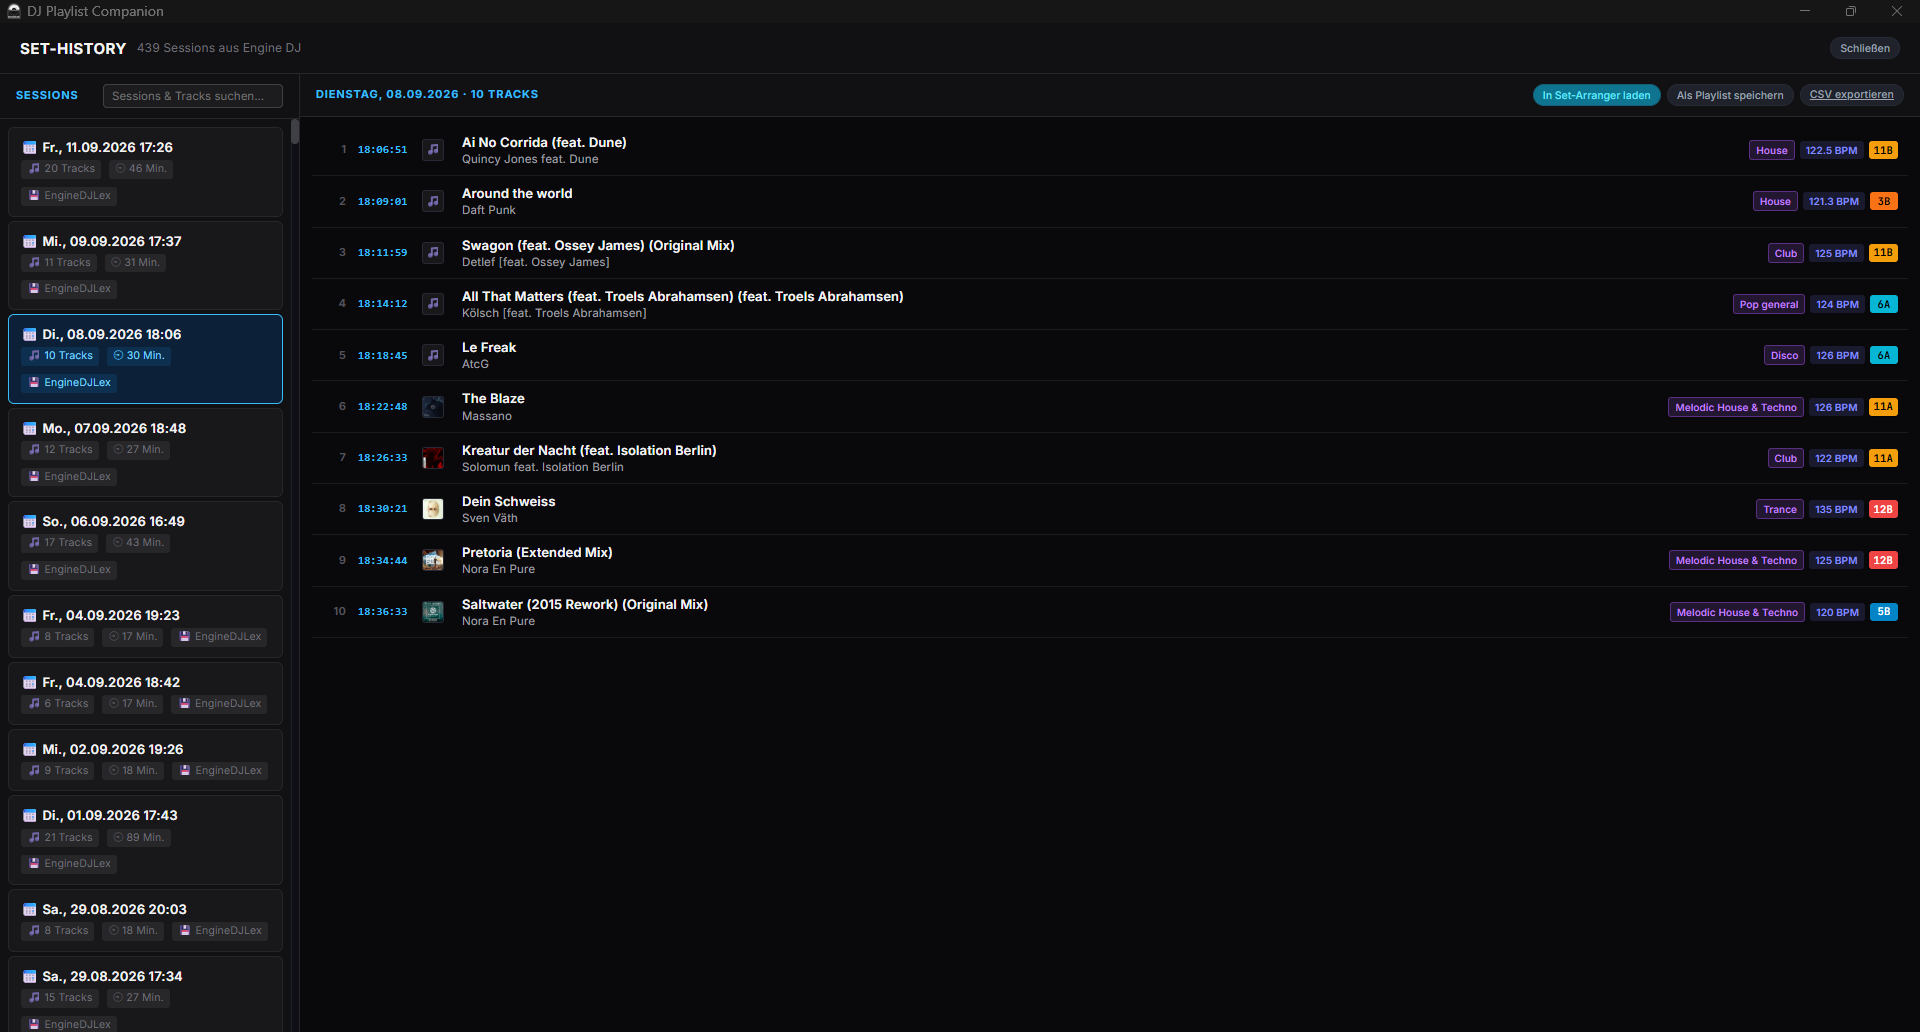
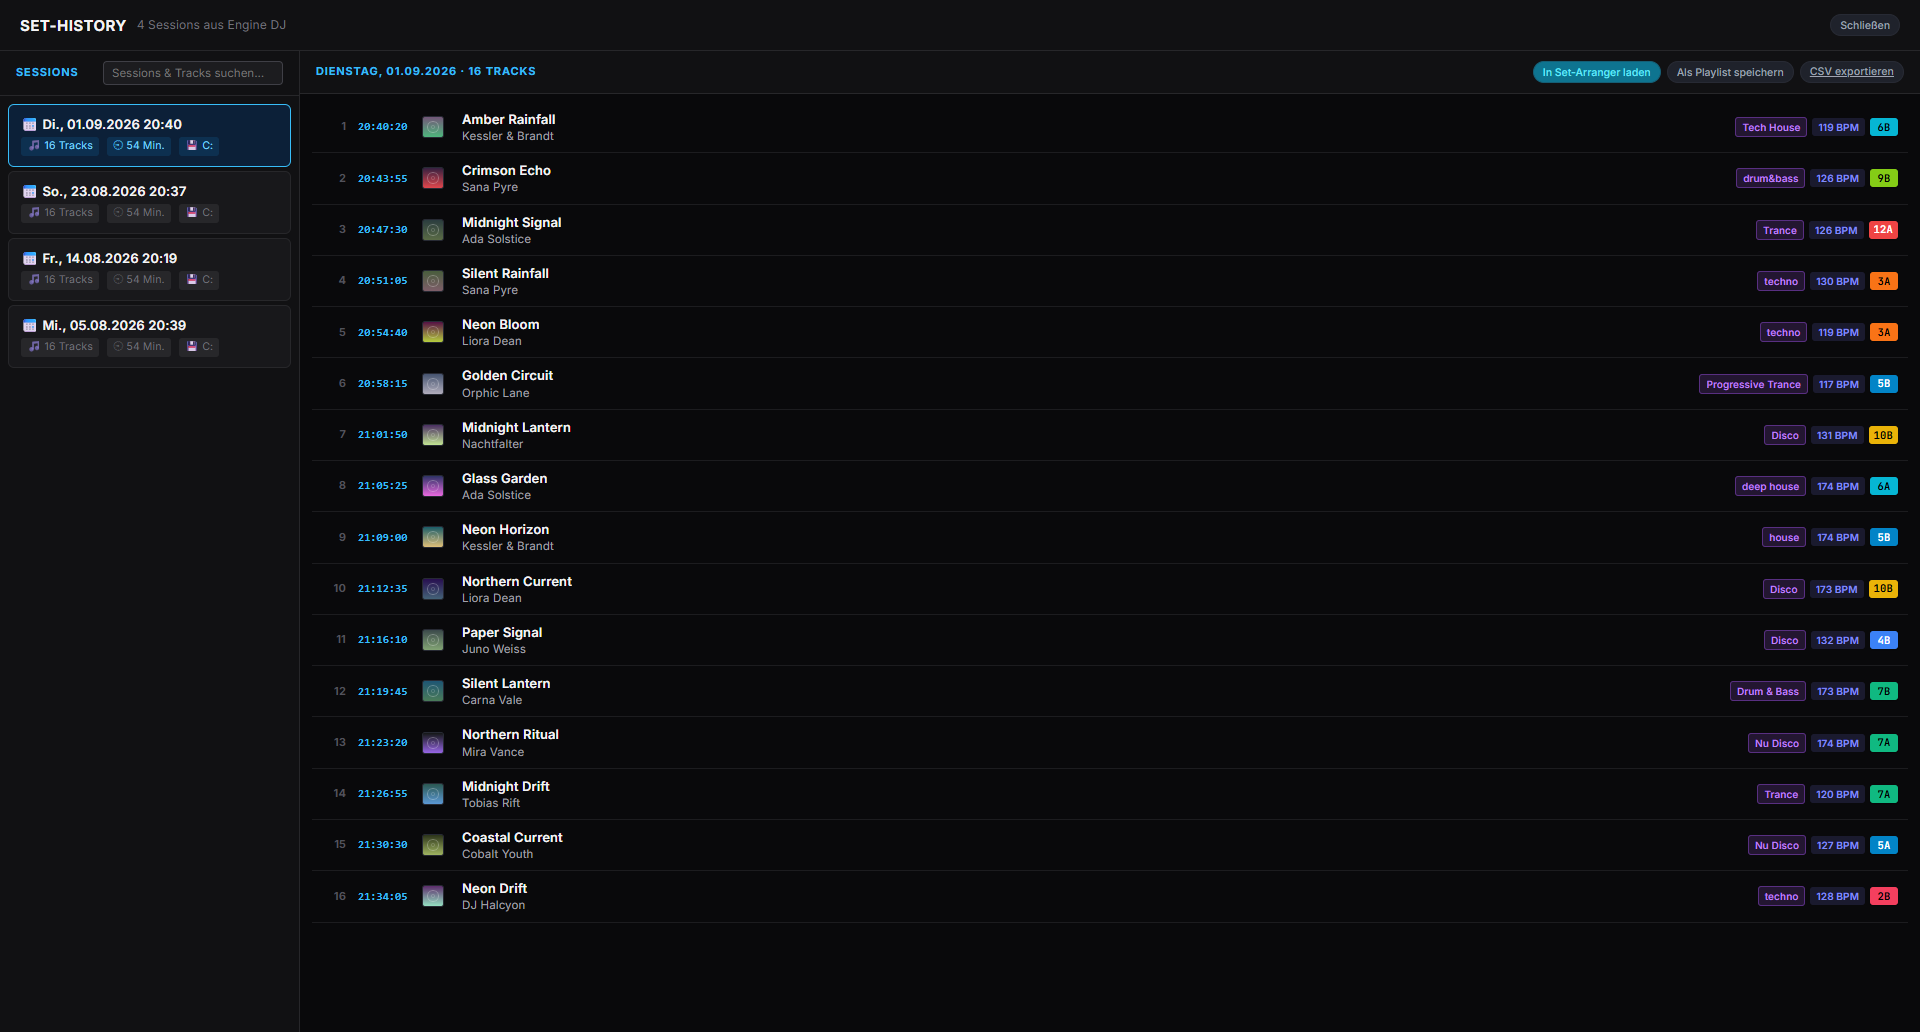
release: v1.0.0-beta.3 vorbereitet (Tonart-Spalte, neue Screenshots, neue Pruefsumme)

diff --git a/release/RELEASE_NOTES_v1.0.0-beta.3.md b/release/RELEASE_NOTES_v1.0.0-beta.3.md
@@ -1,0 +1,94 @@
+# DJ Playlist Companion – v1.0.0-beta.3
+
+**Aktuelle Beta** für Windows 10 / 11 (64 Bit).
+
+> ⏳ **Testzeitraum: 120 Tage voller Funktionsumfang** – alle Funktionen, keine
+> Track-Limits. Danach wechselt das Programm in den Lese-Modus (Ansehen und
+> Analysieren bleiben möglich, Speichern erst nach Freischaltung).
+>
+> ⚠ Bitte vor dem Test ein **Backup der Engine-DJ-Bibliothek** anlegen und
+> Engine DJ beim Speichern geschlossen halten.
+
+## ⬇ Download
+
+| Datei | Größe | Hinweis |
+|---|---|---|
+| `DJ_Playlist_Companion_Demo_Setup.exe` | 89.053.116 Bytes (84,9 MB) | Windows-Installer, **keine** Admin-Rechte nötig |
+
[1 lines of base64/hex data omitted]
+
+Prüfen mit:
+```powershell
+Get-FileHash -Algorithm SHA256 ".\DJ_Playlist_Companion_Demo_Setup.exe"
+```
+
+## 🆕 Neu in dieser Version
+
+- **Neutrale Bezeichnung der Tonart-Spalte:** Die Spalte heißt in der
+  Oberfläche jetzt **„Tonart"** (englisch: **„Key"**) und die Filterleiste
+  **„Tonart wählen"**. Der Badge-Tooltip lautet **„Harmonische Tonart"**, der
+  Sortierhinweis **„Standard: Tonart & BPM"**. Die angezeigten Werte (z. B. `8A`,
+  `8B`) bleiben unverändert.
+- Hintergrund: markenrechtliche Vorsicht – geschützte Fremdbezeichnungen werden
+  im Programm, in den Downloads und in der Dokumentation nicht mehr verwendet.
+- **Neue Screenshots** auf Basis einer vollständig synthetischen Demo-Bibliothek
+  (keine echten Titel oder Artists).
+
+## ✨ Funktionen
+
+- **Set-Arranger (F8):** Set-Vorbereitung mit Spannungsbogen-Optimierung
+  („The Wave", „Progressive Ramp", „Peak-Time"), BPM- und Tonart-Flow
+- **Dubletten-Bereinigung (F3):** doppelte Titel und Schreibweisen-Varianten
+  finden und in einem Durchgang bereinigen
+- **Genre-Manager (F9):** Genre-Schreibweisen vereinheitlichen
+- **Artist-Manager (F11):** A–Z-Schnellnavigation und Korrektur von Schreibweisen
+- **Smart Track-Relocator (F7):** verschobene Musikdateien wiederfinden und
+  Verknüpfungen reparieren
+- **Set-History (F6):** gespielte Gigs analysieren, als Playlist exportieren
+- **CUE-Player (F10):** Tracks vorhören (Leertaste = Play/Stop)
+- **Sicherheits-Backups:** automatische Sicherung vor dauerhaften Änderungen
+
+## ⏳ Testzeitraum im Detail
+
+| | |
+|---|---|
+| Dauer in dieser Beta | **120 Tage** (Verkaufsversion später: 30 Tage) |
+| Start | mit dem ersten Programmstart |
+| Resttage sichtbar | Button **„Lizenz"** oben rechts in der Kopfzeile |
+| Nach Ablauf | Lese-Modus – Ansicht, Planung, Analyse, Backups und Exporte bleiben frei |
+| Gesperrt nach Ablauf | Schreiben in die Engine-DJ-Datenbank |
+
+## 🖥 Voraussetzungen
+
+- Windows 10 oder Windows 11 (64 Bit)
+- Engine-DJ-Bibliothek (Engine DJ 3.x, 4.x & 5.0+), auf PC oder USB/SSD
+- Keine Python-Installation, keine weiteren Abhängigkeiten
+
+## ⚠ Bekannte Einschränkungen
+
+- **Kauf-Link im Lizenzdialog ist noch nicht aktiv** – der Button führt derzeit
+  ins Leere. Das ist bekannt und kein Installationsfehler.
+- **Kein Code-Signing:** Windows zeigt beim Start ggf. eine
+  SmartScreen-Warnung → *Weitere Informationen* → *Trotzdem ausführen*.
+- Nur Windows und nur Engine DJ (kein rekordbox, Serato oder Traktor).
+
+## 🔒 Datenschutz
+
+Keine Telemetrie, kein Tracking. Alle Daten bleiben lokal
+(`%LOCALAPPDATA%\DJ Playlist Companion`). Eine Netzwerkverbindung entsteht nur
+bei der Aktivierung eines Pro-Lizenzschlüssels (Lemon Squeezy).
+
+## 🐞 Feedback
+
+- Fehler melden: [Bug-Report anlegen](../../issues/new?template=bug_report.yml)
+- Fragen & Austausch: [Discussions](../../discussions)
+
+Details zur Installation: [`docs/INSTALLATION.md`](../docs/INSTALLATION.md) ·
+Häufige Fragen: [`docs/FAQ.md`](../docs/FAQ.md) ·
+Testcheckliste: [`BETA_TESTANLEITUNG.md`](../BETA_TESTANLEITUNG.md)
+
+---
+
+*DJ Playlist Companion ist eine unabhängige Software und steht in keiner
+geschäftlichen Verbindung zu inMusic Brands Inc. oder Denon DJ. Engine DJ,
+Engine OS und Denon DJ sind eingetragene Warenzeichen von inMusic Brands Inc.*

diff --git a/README.md b/README.md
@@ -10,7 +10,7 @@
 
 Beta-Testversion für **Windows 10 & 11** · **Engine DJ** · **Denon DJ**
 
-[⬇ **DOWNLOAD BETA v1.0.0-beta.2**](https://github.com/tintronik/DJ-Playlist-Companion-Beta/releases/download/v1.0.0-beta.2/DJ_Playlist_Companion_Demo_Setup.exe)
+[⬇ **DOWNLOAD BETA v1.0.0-beta.3**](https://github.com/tintronik/DJ-Playlist-Companion-Beta/releases/download/v1.0.0-beta.3/DJ_Playlist_Companion_Demo_Setup.exe)
 
 ---
 
@@ -191,11 +191,11 @@ Saving changes to the Engine DJ database after the beta requires a **Pro license
 
 ## Windows 10 / 11 — 64-bit
 
-**Latest beta:** `v1.0.0-beta.2`
+**Latest beta:** `v1.0.0-beta.3`
 
 ### Direct Download
 
-[⬇ **Download DJ Playlist Companion Beta**](https://github.com/tintronik/DJ-Playlist-Companion-Beta/releases/download/v1.0.0-beta.2/DJ_Playlist_Companion_Demo_Setup.exe)
+[⬇ **Download DJ Playlist Companion Beta**](https://github.com/tintronik/DJ-Playlist-Companion-Beta/releases/download/v1.0.0-beta.3/DJ_Playlist_Companion_Demo_Setup.exe)
 
 Installer:
 
@@ -461,6 +461,6 @@ Every beta tester helps make the application better.
 
 Made for DJs who use Engine DJ.
 
-[⬇ Download the Beta](https://github.com/tintronik/DJ-Playlist-Companion-Beta/releases/download/v1.0.0-beta.2/DJ_Playlist_Companion_Demo_Setup.exe)
+[⬇ Download the Beta](https://github.com/tintronik/DJ-Playlist-Companion-Beta/releases/download/v1.0.0-beta.3/DJ_Playlist_Companion_Demo_Setup.exe)
 
 </div>

diff --git a/CHANGELOG.md b/CHANGELOG.md
@@ -2,7 +2,7 @@
 
 Alle nennenswerten Änderungen an den veröffentlichten Beta-Versionen.
 
-## [Unveröffentlicht] – in Arbeit
+## [v1.0.0-beta.3] – aktuelle Beta
 
 **Neutrale Bezeichnung für die Tonart-Spalte**
 
@@ -14,8 +14,10 @@ Alle nennenswerten Änderungen an den veröffentlichten Beta-Versionen.
 - Hintergrund: markenrechtliche Vorsicht – geschützte Fremdbezeichnungen werden im
   Programm, in den Downloads und in der Dokumentation nicht mehr verwendet.
 
-> Hinweis: Die Screenshots in diesem Repository zeigen noch den bisherigen
-> Spaltenkopf. Sie werden mit der nächsten Beta-Version aktualisiert.
+**Neue Screenshots**
+
+- Alle Bilder wurden mit einer vollständig synthetischen Demo-Bibliothek neu
+  aufgenommen (keine echten Titel, Artists oder Cover).
 
 ## [v1.0.0-beta.2] – erste veröffentlichte Beta
 

diff --git a/BETA_TESTANLEITUNG.md b/BETA_TESTANLEITUNG.md
@@ -94,7 +94,7 @@ Hilfreich für uns:
 
 | Angabe | Wo zu finden |
 |---|---|
-| Beta-Version | Dateiname der Setup-Datei (z. B. `v1.0.0-beta.1`) |
+| Beta-Version | Dateiname der Setup-Datei (z. B. `v1.0.0-beta.3`) |
 | Windows-Version | `winver` in der Windows-Suche |
 | Engine-DJ-Version | Engine DJ → Info/Über |
 | Schritte zum Nachstellen | 1, 2, 3 … so genau wie möglich |
